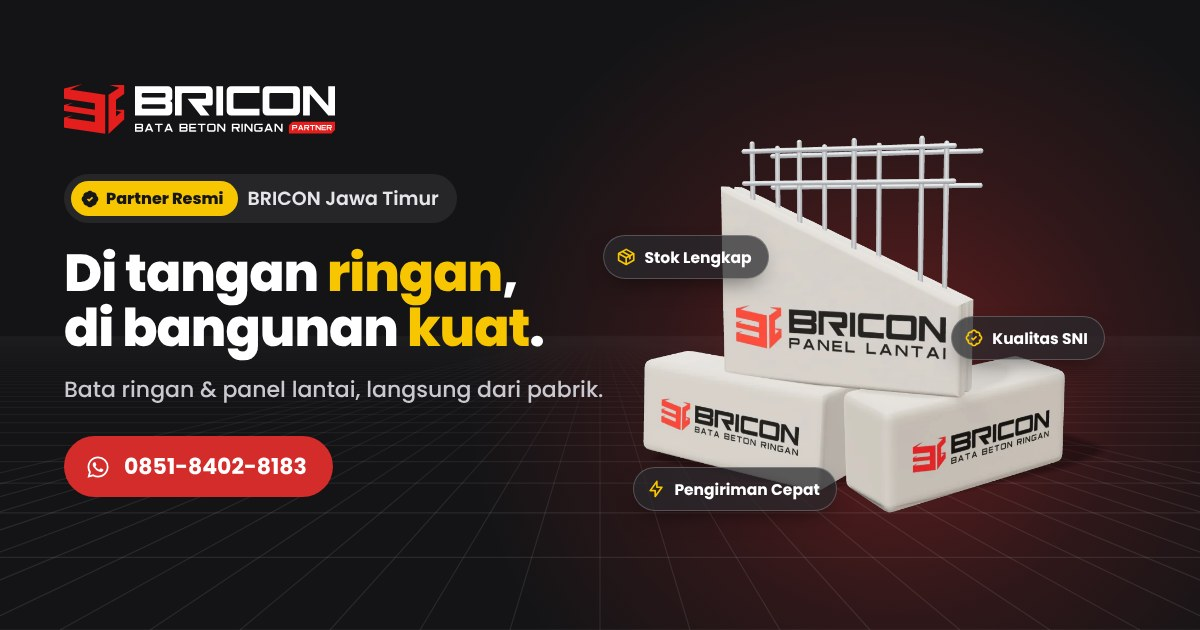
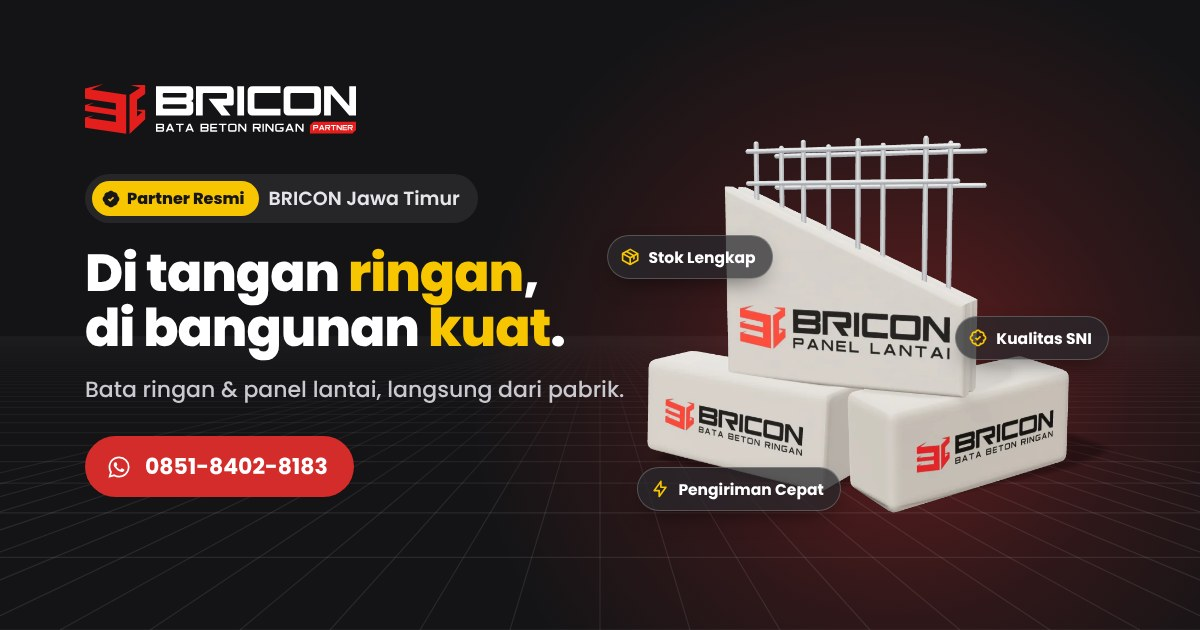
style: OG image digeser, jarak kiri dan kanan sama 85px
Claude-Session: https://claude.ai/code/session_01XkrxM7aJVBU55g7YgcUYVG

diff --git a/index.html b/index.html
@@ -52,7 +52,7 @@
 <meta property="og:title" content="Bricon Partner — Bata Ringan &amp; Panel Lantai Jawa Timur">
 <meta property="og:description" content="Bata ringan &amp; panel lantai BRICON berteknologi Microbubble. Stok lengkap, pengiriman cepat, kualitas SNI. Konsultasi gratis via WhatsApp.">
 <meta property="og:locale" content="id_ID">
-<meta property="og:image" content="https://bricon-partner.com/assets/og-image.jpg?v=r14">
+<meta property="og:image" content="https://bricon-partner.com/assets/og-image.jpg?v=r15">
 <meta property="og:image:width" content="1200">
 <meta property="og:image:height" content="630">
 <meta property="og:image:alt" content="Bricon Partner — Bata Ringan &amp; Panel Lantai BRICON Jawa Timur">
@@ -61,7 +61,7 @@
 <meta name="twitter:card" content="summary_large_image">
 <meta name="twitter:title" content="Bricon Partner — Bata Ringan &amp; Panel Lantai Jawa Timur">
 <meta name="twitter:description" content="Bata ringan &amp; panel lantai BRICON berteknologi Microbubble. Stok lengkap, pengiriman cepat, kualitas SNI.">
-<meta name="twitter:image" content="https://bricon-partner.com/assets/og-image.jpg?v=r14">
+<meta name="twitter:image" content="https://bricon-partner.com/assets/og-image.jpg?v=r15">
 
 <!-- Canonical -->
 <link rel="canonical" href="https://bricon-partner.com/">
@@ -78,7 +78,7 @@
   "alternateName": ["Bata Ringan Bricon Partner"],
   "description": "Bricon Partner — penyedia Bata Ringan & Panel Lantai BRICON berteknologi Microbubble di Jawa Timur. Stok lengkap, pengiriman cepat, kualitas SNI.",
   "url": "https://bricon-partner.com/",
-  "image": "https://bricon-partner.com/assets/og-image.jpg?v=r14",
+  "image": "https://bricon-partner.com/assets/og-image.jpg?v=r15",
   "logo": "https://bricon-partner.com/assets/images/bricon-partner-logo-square.png?v=20261123",
   "telephone": "+6285184028183",
   "priceRange": "$$",

diff --git a/kota/mojokerto.html b/kota/mojokerto.html
@@ -54,7 +54,7 @@
 <meta property="og:title" content="Bata Ringan Mojokerto — Bricon Partner">
 <meta property="og:description" content="Jual bata ringan &amp; panel lantai Mojokerto berteknologi Microbubble. Harga bersaing, stok lengkap, kirim cepat. Konsultasi gratis via WhatsApp.">
 <meta property="og:locale" content="id_ID">
-<meta property="og:image" content="https://bricon-partner.com/assets/og-image.jpg?v=r14">
+<meta property="og:image" content="https://bricon-partner.com/assets/og-image.jpg?v=r15">
 <meta property="og:image:width" content="1200">
 <meta property="og:image:height" content="630">
 <meta property="og:image:alt" content="Bricon Partner — Bata Ringan &amp; Panel Lantai Mojokerto">
@@ -63,7 +63,7 @@
 <meta name="twitter:card" content="summary_large_image">
 <meta name="twitter:title" content="Bata Ringan Mojokerto — Bricon Partner">
 <meta name="twitter:description" content="Jual bata ringan &amp; panel lantai Mojokerto berteknologi Microbubble. Harga bersaing, stok lengkap, kirim cepat.">
-<meta name="twitter:image" content="https://bricon-partner.com/assets/og-image.jpg?v=r14">
+<meta name="twitter:image" content="https://bricon-partner.com/assets/og-image.jpg?v=r15">
 
 <!-- Canonical -->
 <link rel="canonical" href="https://bricon-partner.com/kota/mojokerto">
@@ -81,7 +81,7 @@
   "alternateName": ["Bata Ringan Bricon Partner"],
   "description": "Jual Bata Ringan & Panel Lantai BRICON berteknologi Microbubble di Mojokerto. Stok lengkap, pengiriman cepat, kualitas SNI.",
   "url": "https://bricon-partner.com/kota/mojokerto",
-  "image": "https://bricon-partner.com/assets/og-image.jpg?v=r14",
+  "image": "https://bricon-partner.com/assets/og-image.jpg?v=r15",
   "logo": "https://bricon-partner.com/assets/images/bricon-partner-logo-square.png?v=20261123",
   "telephone": "+6285184028183",
   "priceRange": "$$",

diff --git a/kota/pasuruan.html b/kota/pasuruan.html
@@ -54,7 +54,7 @@
 <meta property="og:title" content="Bata Ringan Pasuruan — Bricon Partner">
 <meta property="og:description" content="Jual bata ringan &amp; panel lantai Pasuruan berteknologi Microbubble. Harga bersaing, stok lengkap, kirim cepat. Konsultasi gratis via WhatsApp.">
 <meta property="og:locale" content="id_ID">
-<meta property="og:image" content="https://bricon-partner.com/assets/og-image.jpg?v=r14">
+<meta property="og:image" content="https://bricon-partner.com/assets/og-image.jpg?v=r15">
 <meta property="og:image:width" content="1200">
 <meta property="og:image:height" content="630">
 <meta property="og:image:alt" content="Bricon Partner — Bata Ringan &amp; Panel Lantai Pasuruan">
@@ -63,7 +63,7 @@
 <meta name="twitter:card" content="summary_large_image">
 <meta name="twitter:title" content="Bata Ringan Pasuruan — Bricon Partner">
 <meta name="twitter:description" content="Jual bata ringan &amp; panel lantai Pasuruan berteknologi Microbubble. Harga bersaing, stok lengkap, kirim cepat.">
-<meta name="twitter:image" content="https://bricon-partner.com/assets/og-image.jpg?v=r14">
+<meta name="twitter:image" content="https://bricon-partner.com/assets/og-image.jpg?v=r15">
 
 <!-- Canonical -->
 <link rel="canonical" href="https://bricon-partner.com/kota/pasuruan">
@@ -81,7 +81,7 @@
   "alternateName": ["Bata Ringan Bricon Partner"],
   "description": "Jual Bata Ringan & Panel Lantai BRICON berteknologi Microbubble di Pasuruan. Stok lengkap, pengiriman cepat, kualitas SNI.",
   "url": "https://bricon-partner.com/kota/pasuruan",
-  "image": "https://bricon-partner.com/assets/og-image.jpg?v=r14",
+  "image": "https://bricon-partner.com/assets/og-image.jpg?v=r15",
   "logo": "https://bricon-partner.com/assets/images/bricon-partner-logo-square.png?v=20261123",
   "telephone": "+6285184028183",
   "priceRange": "$$",

diff --git a/kota/sidoarjo.html b/kota/sidoarjo.html
@@ -54,7 +54,7 @@
 <meta property="og:title" content="Bata Ringan Sidoarjo — Bricon Partner">
 <meta property="og:description" content="Jual bata ringan &amp; panel lantai Sidoarjo berteknologi Microbubble. Harga bersaing, stok lengkap, kirim cepat. Konsultasi gratis via WhatsApp.">
 <meta property="og:locale" content="id_ID">
-<meta property="og:image" content="https://bricon-partner.com/assets/og-image.jpg?v=r14">
+<meta property="og:image" content="https://bricon-partner.com/assets/og-image.jpg?v=r15">
 <meta property="og:image:width" content="1200">
 <meta property="og:image:height" content="630">
 <meta property="og:image:alt" content="Bricon Partner — Bata Ringan &amp; Panel Lantai Sidoarjo">
@@ -63,7 +63,7 @@
 <meta name="twitter:card" content="summary_large_image">
 <meta name="twitter:title" content="Bata Ringan Sidoarjo — Bricon Partner">
 <meta name="twitter:description" content="Jual bata ringan &amp; panel lantai Sidoarjo berteknologi Microbubble. Harga bersaing, stok lengkap, kirim cepat.">
-<meta name="twitter:image" content="https://bricon-partner.com/assets/og-image.jpg?v=r14">
+<meta name="twitter:image" content="https://bricon-partner.com/assets/og-image.jpg?v=r15">
 
 <!-- Canonical -->
 <link rel="canonical" href="https://bricon-partner.com/kota/sidoarjo">
@@ -81,7 +81,7 @@
   "alternateName": ["Bata Ringan Bricon Partner"],
   "description": "Jual Bata Ringan & Panel Lantai BRICON berteknologi Microbubble di Sidoarjo. Stok lengkap, pengiriman cepat, kualitas SNI.",
   "url": "https://bricon-partner.com/kota/sidoarjo",
-  "image": "https://bricon-partner.com/assets/og-image.jpg?v=r14",
+  "image": "https://bricon-partner.com/assets/og-image.jpg?v=r15",
   "logo": "https://bricon-partner.com/assets/images/bricon-partner-logo-square.png?v=20261123",
   "telephone": "+6285184028183",
   "priceRange": "$$",

diff --git a/kota/surabaya.html b/kota/surabaya.html
@@ -54,7 +54,7 @@
 <meta property="og:title" content="Bata Ringan Surabaya — Bricon Partner">
 <meta property="og:description" content="Jual bata ringan &amp; panel lantai Surabaya berteknologi Microbubble. Harga bersaing, stok lengkap, kirim cepat. Konsultasi gratis via WhatsApp.">
 <meta property="og:locale" content="id_ID">
-<meta property="og:image" content="https://bricon-partner.com/assets/og-image.jpg?v=r14">
+<meta property="og:image" content="https://bricon-partner.com/assets/og-image.jpg?v=r15">
 <meta property="og:image:width" content="1200">
 <meta property="og:image:height" content="630">
 <meta property="og:image:alt" content="Bricon Partner — Bata Ringan &amp; Panel Lantai Surabaya">
@@ -63,7 +63,7 @@
 <meta name="twitter:card" content="summary_large_image">
 <meta name="twitter:title" content="Bata Ringan Surabaya — Bricon Partner">
 <meta name="twitter:description" content="Jual bata ringan &amp; panel lantai Surabaya berteknologi Microbubble. Harga bersaing, stok lengkap, kirim cepat.">
-<meta name="twitter:image" content="https://bricon-partner.com/assets/og-image.jpg?v=r14">
+<meta name="twitter:image" content="https://bricon-partner.com/assets/og-image.jpg?v=r15">
 
 <!-- Canonical -->
 <link rel="canonical" href="https://bricon-partner.com/kota/surabaya">
@@ -81,7 +81,7 @@
   "alternateName": ["Bata Ringan Bricon Partner"],
   "description": "Jual Bata Ringan & Panel Lantai BRICON berteknologi Microbubble di Surabaya. Stok lengkap, pengiriman cepat, kualitas SNI.",
   "url": "https://bricon-partner.com/kota/surabaya",
-  "image": "https://bricon-partner.com/assets/og-image.jpg?v=r14",
+  "image": "https://bricon-partner.com/assets/og-image.jpg?v=r15",
   "logo": "https://bricon-partner.com/assets/images/bricon-partner-logo-square.png?v=20261123",
   "telephone": "+6285184028183",
   "priceRange": "$$",

diff --git a/kota/gresik.html b/kota/gresik.html
@@ -54,7 +54,7 @@
 <meta property="og:title" content="Bata Ringan Gresik — Bricon Partner">
 <meta property="og:description" content="Jual bata ringan &amp; panel lantai Gresik berteknologi Microbubble. Harga bersaing, stok lengkap, kirim cepat. Konsultasi gratis via WhatsApp.">
 <meta property="og:locale" content="id_ID">
-<meta property="og:image" content="https://bricon-partner.com/assets/og-image.jpg?v=r14">
+<meta property="og:image" content="https://bricon-partner.com/assets/og-image.jpg?v=r15">
 <meta property="og:image:width" content="1200">
 <meta property="og:image:height" content="630">
 <meta property="og:image:alt" content="Bricon Partner — Bata Ringan &amp; Panel Lantai Gresik">
@@ -63,7 +63,7 @@
 <meta name="twitter:card" content="summary_large_image">
 <meta name="twitter:title" content="Bata Ringan Gresik — Bricon Partner">
 <meta name="twitter:description" content="Jual bata ringan &amp; panel lantai Gresik berteknologi Microbubble. Harga bersaing, stok lengkap, kirim cepat.">
-<meta name="twitter:image" content="https://bricon-partner.com/assets/og-image.jpg?v=r14">
+<meta name="twitter:image" content="https://bricon-partner.com/assets/og-image.jpg?v=r15">
 
 <!-- Canonical -->
 <link rel="canonical" href="https://bricon-partner.com/kota/gresik">
@@ -81,7 +81,7 @@
   "alternateName": ["Bata Ringan Bricon Partner"],
   "description": "Jual Bata Ringan & Panel Lantai BRICON berteknologi Microbubble di Gresik. Stok lengkap, pengiriman cepat, kualitas SNI.",
   "url": "https://bricon-partner.com/kota/gresik",
-  "image": "https://bricon-partner.com/assets/og-image.jpg?v=r14",
+  "image": "https://bricon-partner.com/assets/og-image.jpg?v=r15",
   "logo": "https://bricon-partner.com/assets/images/bricon-partner-logo-square.png?v=20261123",
   "telephone": "+6285184028183",
   "priceRange": "$$",
